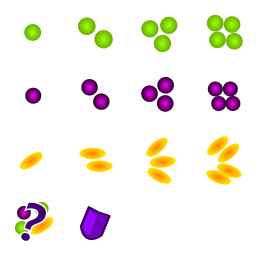
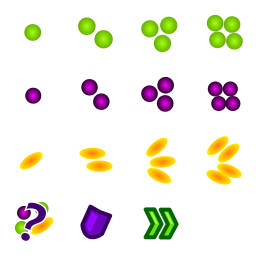
Boost item

Changed region(s): [[0.5625, 0.7812, 0.7188, 0.9375], [0.3125, 0.7812, 0.4375, 0.9375]]

diff --git a/core/src/com/phil/spacegame/Gameplay.java b/core/src/com/phil/spacegame/Gameplay.java
@@ -59,7 +59,11 @@ public class Gameplay {
     private float spawnTimerItems;
     private float levelTimer;
     private float gameoverTimer;
-
+    //boost
+    private boolean boostActive;
+    private float boostTimer;
+    private float boostTime;
+    private float speedUpFactor;
 
     public Gameplay(GameplayScreen gs) {
         this.gameplayScreen = gs;
@@ -84,13 +88,17 @@ public class Gameplay {
         spawnIntervalDecreaseStep = 0.2f;
         spawnIntervalMinimum = 0.5f;
         spawnIntervalObstacles = 1.2f;
-        spawnIntervalItems = 14.0f;
+        spawnIntervalItems = 12.0f;
         levelDurationEnemies = 22.0f;
         levelDurationObstacles = 10.0f;
         levelDurationObstaclesIncreaseStep = 3.0f;
         justDied = true;
         spawnObstacles = false;
         levelDuration = levelDurationEnemies;
+        speedUpFactor = 1.0f;
+        boostTimer = 0.0f;
+        boostTime = 0.0f;
+        boostActive = false;
     }
 
     private void initBackground() {
@@ -174,21 +182,23 @@ public class Gameplay {
 
     public void update(float delta){
         if (!paused) {
-            parallaxBackground.move(delta, bgSpeed, 0.0f);
+            parallaxBackground.move(delta, speedUpFactor * bgSpeed, 0.0f);
             if (started) {
                 player.update(delta);
                 if (player.isDead()) {
                     processGameover(delta);
                 }
                 //calculate spawn level
-                calcLevel(delta);
+                calcLevel(speedUpFactor * delta);
                 //spawn new enemies
                 if (!gameoverSequence)
-                    spawnObjects(delta);
+                    spawnObjects(speedUpFactor * delta);
                 //update spawn objects
-                updateSpawns(delta);
+                updateSpawns(speedUpFactor * delta);
                 //do collisions
                 calcCollisions();
+                //boost effect
+                calcBoostEffect(delta);
             }
         }
     }
@@ -205,6 +215,7 @@ public class Gameplay {
     private void processGameover(float delta) {
 
         if (justDied) {
+            boostActive = false;
             parallaxBackground.shake();
             justDied = false;
         }
@@ -314,15 +325,34 @@ public class Gameplay {
     private void spawnItems() {
         Item i = (Item) spawnPool.getFromPool(SpawnType.Item);
         float rand = random.nextFloat();
-        if (rand < 0.25f) //repair tool
+        if (rand < 0.2f) //repair tool
             i.init(0, Spacegame.screenWidth + 150, 20 + Gameplay.random.nextInt(600));
-        else if (rand < 0.45f) //shield
+        else if (rand < 0.4f) //shield
             i.init(2, Spacegame.screenWidth + 150, 20 + Gameplay.random.nextInt(600));
+        else if (rand < 0.6f) //boost
+            i.init(3, Spacegame.screenWidth + 150, 20 + Gameplay.random.nextInt(600));
         else if (rand <= 0.8f && player.getGunLevel() < player.getGunLevelMax()) //gun upgrade
             i.init(10 + player.getGunLevel() + 1, Spacegame.screenWidth + 150, 20 + Gameplay.random.nextInt(600));
         else { //random gun upgrade/downgrade
             i.init(1, Spacegame.screenWidth + 150, 20 + Gameplay.random.nextInt(600));
         }
+    }
+
+    private void calcBoostEffect(float delta) {
+        if (boostActive) {
+            boostTimer += delta;
+            if (boostTimer >= boostTime) {
+                boostActive = false;
+                boostTimer = 0.0f;
+                speedUpFactor = 1.0f;
+            }
+        }
+    }
+
+    private void setBoost(float factor, float time) {
+        speedUpFactor = factor;
+        boostTime = time;
+        boostActive = true;
     }
 
     private void collisionItem(Item item) {
@@ -342,7 +372,12 @@ public class Gameplay {
             player.setGunLevel(rand);
         }
         else if (item.getType() == 2) { //shield
-            player.setShield(10);
+            player.setShield(10, 0);
+        }
+        else if (item.getType() == 3) { //boost
+            float boost = 5.0f;
+            setBoost(4.0f, boost);
+            player.setShield(boost, 1);
         }
 
         item.kill(spawnPool);

diff --git a/core/src/com/phil/spacegame/Player.java b/core/src/com/phil/spacegame/Player.java
@@ -27,6 +27,8 @@ public class Player extends ShootingObject {
     private boolean shieldActive;
     private float shieldTimer;
     private Sprite shield;
+    private Sprite shieldBoost;
+    private Sprite activeShield;
     //animation sparkles
     private AnimatedSprite sparkles;
     private boolean showSparkles;
@@ -38,10 +40,13 @@ public class Player extends ShootingObject {
         //init shadow
         shadow = new Sprite(Spacegame.resources.get(Spacegame.resources.shadow, Texture.class));
         shadow.setBounds(80, collisionMarginBottom + 20, 179, 25);
-        //init shield sprite
+        //init shield sprites
+        //normal shield from shield-item
         shield = new Sprite(Spacegame.resources.get(Spacegame.resources.shield, Texture.class));
-        shield.setBounds(0, 0, 222, 92);
-        //sparkles
+        shield.setBounds(-300, 0, 222, 92);
+        //shield showing at boost
+        shieldBoost = new Sprite(Spacegame.resources.get(Spacegame.resources.shieldBoost, Texture.class));
+        shieldBoost.setBounds(-300, 0, 222, 92);//sparkles
         sparkles = new AnimatedSprite();
         sparkles.addAnimation(Spacegame.resources.get(Spacegame.resources.animItemCollect, Texture.class),
                 2, 4, 0, 6, 0.08f, "SPARKLES", false);
@@ -102,7 +107,11 @@ public class Player extends ShootingObject {
         this.showSparkles = true;
     }
 
-    public void setShield(float time) {
+    public void setShield(float time, int type) {
+        if (type == 0)
+            activeShield = shield;
+        else if (type == 1)
+            activeShield = shieldBoost;
         shieldTimer = time;
         shieldActive = true;
     }
@@ -122,9 +131,11 @@ public class Player extends ShootingObject {
             //update shield
             if (shieldActive) {
                 shieldTimer -= delta;
-                if (shieldTimer <= 0.0f)
+                if (shieldTimer <= 0.0f) {
                     shieldActive = false;
-                shield.setPosition(getX() -10 , getY() + 9);
+                    activeShield.setPosition(-activeShield.getWidth(), 0);
+                }
+                activeShield.setPosition(getX() -10 , getY() + 9);
             }
             //shadow
             shadow.setAlpha((Spacegame.screenHeight - getY()) / Spacegame.screenHeight );
@@ -166,7 +177,7 @@ public class Player extends ShootingObject {
             if (showSparkles)
                 sparkles.draw(sb);
             if (shieldActive)
-                shield.draw(sb);
+                activeShield.draw(sb);
         }
     }
 

diff --git a/core/src/com/phil/spacegame/Enemy.java b/core/src/com/phil/spacegame/Enemy.java
@@ -28,7 +28,7 @@ public class Enemy extends ShootingObject implements SpawnObject {
                     4, 8, 0, 4, 0.05f, "ANIM1", true);
             setAnimation("ANIM1");
             setSize(180, 90);
-            setCollisionArea(20, 20, 120, 60);
+            setCollisionArea(20, 20, 90, 60);
             setGunPower(20.0f);
             setShootingInterval(1.3f);
             setGunType(0);
@@ -42,7 +42,7 @@ public class Enemy extends ShootingObject implements SpawnObject {
                         4, 8, 4, 4, 0.05f, "ANIM2", true);
             setAnimation("ANIM2");
             setSize(180, 90);
-            setCollisionArea(20, 20, 120, 60);
+            setCollisionArea(20, 20, 90, 60);
             setGunPower(20.0f);
             setShootingInterval(1.2f);
             setGunType(0);
@@ -57,7 +57,7 @@ public class Enemy extends ShootingObject implements SpawnObject {
                     4, 8, 8, 4, 0.05f, "ANIM3", true);
             setAnimation("ANIM3");
             setSize(180, 90);
-            setCollisionArea(20, 20, 120, 60);
+            setCollisionArea(20, 20, 90, 60);
             setGunPower(20.0f);
             setShootingInterval(1.4f);
             setGunType(3);
@@ -73,7 +73,7 @@ public class Enemy extends ShootingObject implements SpawnObject {
                     4, 8, 12, 4, 0.05f, "ANIM4", true);
             setAnimation("ANIM4");
             setSize(180, 90);
-            setCollisionArea(20, 20, 120, 60);
+            setCollisionArea(20, 20, 90, 60);
             setGunPower(20.0f);
             setShootingInterval(1.8f);
             setGunType(4);

diff --git a/core/src/com/phil/spacegame/Resources.java b/core/src/com/phil/spacegame/Resources.java
@@ -31,6 +31,7 @@ public class Resources extends AssetManager {
     public String tilesetGunUpgrades = "item_gun_upgrade.png";
     public String animItemCollect = "anim_item_collect.png";
     public String shield = "shield.png";
+    public String shieldBoost = "shield_boost.png";
 
     //font instance for global usage
     public BitmapFont font1;
@@ -64,6 +65,7 @@ public class Resources extends AssetManager {
         load(tilesetGunUpgrades, Texture.class);
         load(animItemCollect, Texture.class);
         load(shield, Texture.class);
+        load(shieldBoost, Texture.class);
 
         System.out.println("FINISHED LOADING ASSETS!");
     }

diff --git a/core/src/com/phil/spacegame/Item.java b/core/src/com/phil/spacegame/Item.java
@@ -48,6 +48,14 @@ public class Item extends GameObject implements SpawnObject {
             setAnimation(animName);
             setSize(64, 64);
         }
+        else if (type == 3) { //Boost
+            animName = "ANIM4";
+            if (!containsAnimation(animName))
+                addAnimation(Spacegame.resources.get(Spacegame.resources.tilesetGunUpgrades, Texture.class),
+                        4, 4, 14, 1, 1.00f, animName, true);
+            setAnimation(animName);
+            setSize(64, 64);
+        }
 
         //GUNS
         else if (type == 10) { //Gun Green 1
